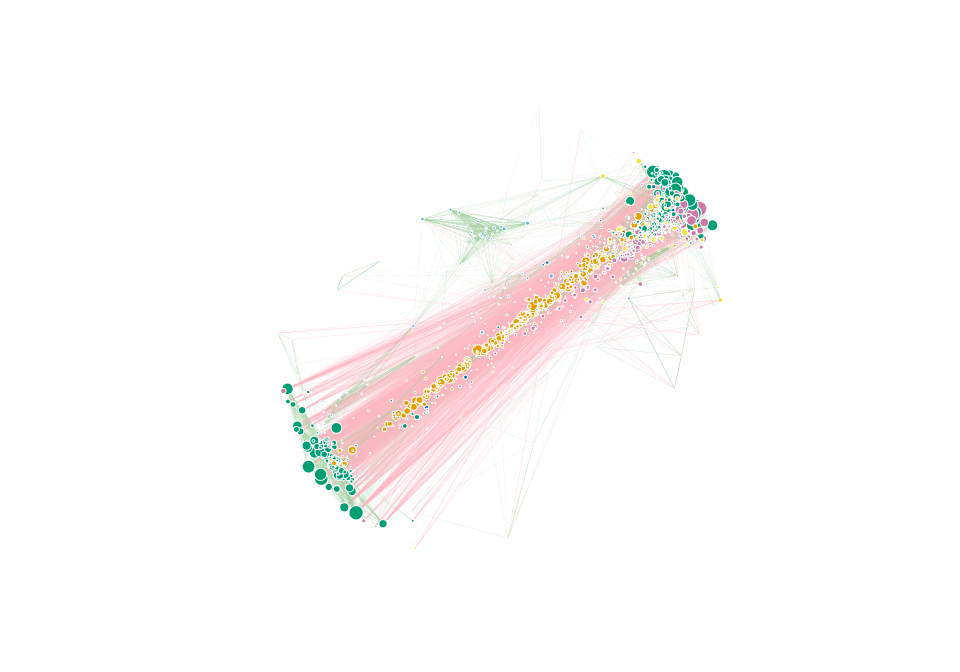
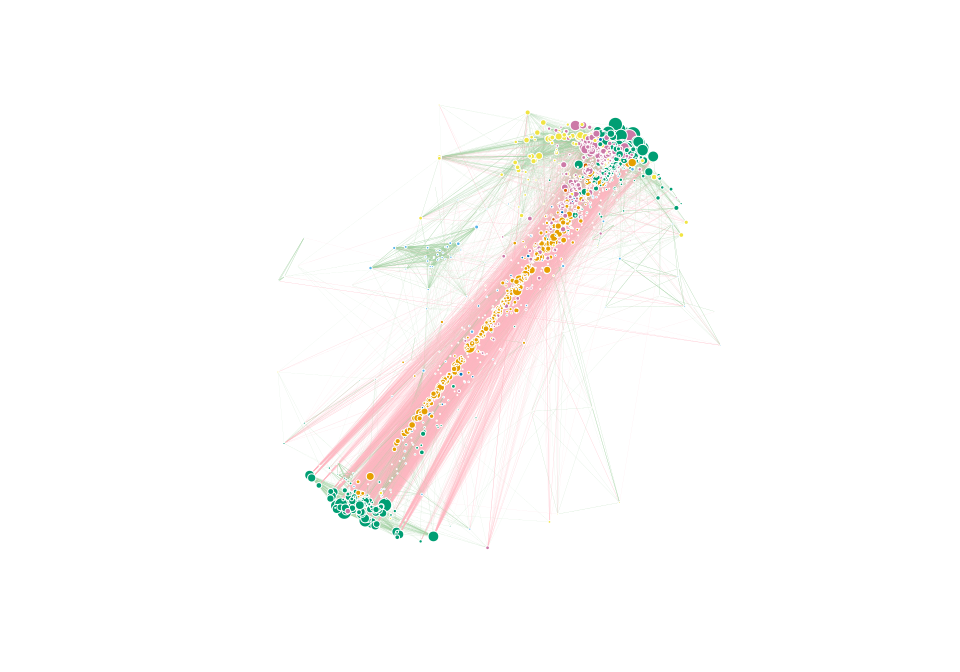
Se explora fuerza de los nodos y diferencias en los rankeos de los mismos

Changed region(s): [[0.2812, 0.1562, 0.75, 0.8125], [0.6562, 0.4688, 0.6875, 0.5]]

diff --git a/Ranking_norm_viz.md b/Ranking_norm_viz.md
@@ -323,8 +323,8 @@ Repetimos los mismos pasos para la red p < 0.001
 g_inf2 = graph_from_data_frame(net_inf_norm2, directed = F)
 g_sld2 = graph_from_data_frame(net_sld_norm2, directed = F)
 
-v_inf2 = V(g_inf)$name
-v_sld2 = V(g_sld)$name
+v_inf2 = V(g_inf2)$name
+v_sld2 = V(g_sld2)$name
 
 
 v_missinf2 = subset(v_cominf, v_cominf %ni% v_inf2) 
@@ -577,5 +577,250 @@ plot(g_sld_com2, rescale = T, layout = ls2)
 ```
 
 ![](Ranking_norm_viz_files/figure-html/unnamed-chunk-20-1.png)<!-- -->
+
+
+
+# Redes separadas con aristas negativas y positivas
+
+Observamos individualmente las subredes con interacciones solo positivas o negativas
+
+
+
+```r
+g_inf_neg <- graph_from_data_frame(inf_neg2, directed = F)
+g_inf_pos <- graph_from_data_frame(inf_pos2, directed = F)
+
+g_sld_neg <- graph_from_data_frame(sld_neg2, directed = F)
+g_sld_pos <- graph_from_data_frame(sld_pos2, directed = F)
+```
+
+
+Calculamos la fuerza y el grado de cada nodo para cada red.
+
+
+
+```r
+#Calculamos grado
+V(g_inf_neg)$degree = degree(g_inf_neg)
+V(g_inf_pos)$degree = degree(g_inf_pos)
+
+V(g_sld_neg)$degree = degree(g_sld_neg)
+V(g_sld_pos)$degree = degree(g_sld_pos)
+
+V(g_inf_com2)$degree = degree(g_inf_com2)
+V(g_sld_com2)$degree = degree(g_sld_com2)
+
+#Calculamos fuerza
+V(g_inf_neg)$str = strength(g_inf_neg, weights = abs(E(g_inf_neg)$norm))
+V(g_inf_pos)$str = strength(g_inf_pos, weights = E(g_inf_pos)$norm)
+
+V(g_sld_neg)$str = strength(g_sld_neg, weights = abs(E(g_sld_neg)$norm))
+V(g_sld_pos)$str = strength(g_sld_pos, weights = E(g_sld_pos)$norm)
+
+V(g_inf_com2)$str = strength(g_inf_com2, weights = abs(E(g_inf_com2)$norm_1))
+V(g_sld_com2)$str = strength(g_sld_com2, weights = abs(E(g_sld_com2)$norm_1))
+
+
+#Calculamos fuerza promedio para cada nodo (s_i = str_i/deg_i)
+
+V(g_inf_neg)$strnorm = V(g_inf_neg)$str/V(g_inf_neg)$degree
+V(g_inf_pos)$strnorm = V(g_inf_pos)$str/V(g_inf_pos)$degree
+
+V(g_sld_neg)$strnorm = V(g_sld_neg)$str/V(g_sld_neg)$degree
+V(g_sld_pos)$strnorm = V(g_sld_pos)$str/V(g_sld_pos)$degree
+
+V(g_inf_com2)$strnorm = V(g_inf_com2)$str/V(g_inf_com2)$degree
+V(g_sld_com2)$strnorm = V(g_sld_com2)$str/V(g_sld_com2)$degree
+```
+
+
+
+Checamos plot de grado vs fuerza promedio
+
+
+
+```r
+deg_vs_str_infneg = cbind.data.frame(V(g_inf_neg)$degree, V(g_inf_neg)$strnorm)
+deg_vs_str_infpos = cbind.data.frame(V(g_inf_pos)$degree, V(g_inf_pos)$strnorm)
+deg_vs_str_infcom = cbind.data.frame(V(g_inf_com2)$degree, V(g_inf_com2)$strnorm)
+
+
+deg_vs_str_sldneg = cbind.data.frame(V(g_sld_neg)$degree, V(g_sld_neg)$strnorm)
+deg_vs_str_sldpos = cbind.data.frame(V(g_sld_pos)$degree, V(g_sld_pos)$strnorm)
+deg_vs_str_sldcom = cbind.data.frame(V(g_sld_com2)$degree, V(g_sld_com2)$strnorm)
+```
+
+
+
+
+```r
+ggplot(deg_vs_str_infneg) +
+ aes(x = `V(g_inf_neg)$degree`, y = `V(g_inf_neg)$strnorm`) +
+ geom_point(shape = "circle", 
+ size = 1.5, colour = "#C9092C") + geom_vline(xintercept = mean( deg_vs_str_infneg$`V(g_inf_neg)$degree`), col = "black") +
+  geom_hline(yintercept = mean(deg_vs_str_infneg$`V(g_inf_neg)$strnorm`), col = "black") +
+ theme_minimal()
+```
+
+![](Ranking_norm_viz_files/figure-html/unnamed-chunk-24-1.png)<!-- -->
+
+```r
+ggplot(deg_vs_str_infpos) +
+ aes(x = `V(g_inf_pos)$degree`, y = `V(g_inf_pos)$strnorm`) +
+ geom_point(shape = "circle", 
+ size = 1.5, colour = "green") + geom_vline(xintercept = mean( deg_vs_str_infpos$`V(g_inf_pos)$degree`), col = "black") +
+  geom_hline(yintercept = mean(deg_vs_str_infpos$`V(g_inf_pos)$strnorm`), col = "black") +
+ theme_minimal()
+```
+
+![](Ranking_norm_viz_files/figure-html/unnamed-chunk-24-2.png)<!-- -->
+
+```r
+ggplot(deg_vs_str_infcom) +
+ aes(x = `V(g_inf_com2)$degree`, y = `V(g_inf_com2)$strnorm`) +
+ geom_point(shape = "circle", 
+ size = 1.5, colour = "steelblue3") + geom_vline(xintercept = mean( deg_vs_str_infcom$`V(g_inf_com2)$degree`), col = "black") +
+  geom_hline(yintercept = mean(deg_vs_str_infcom$`V(g_inf_com2)$strnorm`, na.rm = T), col = "black") +
+ theme_minimal()
+```
+
+```
+## Warning: Removed 24 rows containing missing values (geom_point).
+```
+
+![](Ranking_norm_viz_files/figure-html/unnamed-chunk-24-3.png)<!-- -->
+
+
+
+
+```r
+ggplot(deg_vs_str_sldneg) +
+ aes(x = `V(g_sld_neg)$degree`, y = `V(g_sld_neg)$strnorm`) +
+ geom_point(shape = "circle", 
+ size = 1.5, colour = "#C9092C") + geom_vline(xintercept = mean( deg_vs_str_sldneg$`V(g_sld_neg)$degree`), col = "black") +
+  geom_hline(yintercept = mean(deg_vs_str_sldneg$`V(g_sld_neg)$strnorm`), col = "black") +
+ theme_minimal()
+```
+
+![](Ranking_norm_viz_files/figure-html/unnamed-chunk-25-1.png)<!-- -->
+
+```r
+ggplot(deg_vs_str_sldpos) +
+ aes(x = `V(g_sld_pos)$degree`, y = `V(g_sld_pos)$strnorm`) +
+ geom_point(shape = "circle", 
+ size = 1.5, colour = "green") + geom_vline(xintercept = mean( deg_vs_str_sldpos$`V(g_sld_pos)$degree`), col = "black") +
+  geom_hline(yintercept = mean(deg_vs_str_sldpos$`V(g_sld_pos)$strnorm`), col = "black") +
+ theme_minimal()
+```
+
+![](Ranking_norm_viz_files/figure-html/unnamed-chunk-25-2.png)<!-- -->
+
+```r
+ggplot(deg_vs_str_sldcom) +
+ aes(x = `V(g_sld_com2)$degree`, y = `V(g_sld_com2)$strnorm`) +
+ geom_point(shape = "circle", 
+ size = 1.5, colour = "plum2") + geom_vline(xintercept = mean( deg_vs_str_sldcom$`V(g_sld_com2)$degree`), col = "black") +
+  geom_hline(yintercept = mean(deg_vs_str_sldcom$`V(g_sld_com2)$strnorm`, na.rm = T), col = "black") +
+ theme_minimal()
+```
+
+```
+## Warning: Removed 25 rows containing missing values (geom_point).
+```
+
+![](Ranking_norm_viz_files/figure-html/unnamed-chunk-25-3.png)<!-- -->
+
+
+Checamos grado de nodo vs. rank.
+
+
+
+```r
+deg_rank_inf = cbind.data.frame(V(g_inf_com2)$name, V(g_inf_com2)$degree)
+deg_rank_inf =  deg_rank_inf[order(-deg_rank_inf$`V(g_inf_com2)$degree`),]
+deg_rank_inf$rank = rank(-deg_rank_inf$`V(g_inf_com2)$degree`, ties.method = "min")
+
+
+
+deg_rank_sld = cbind.data.frame(V(g_sld_com2)$name, V(g_sld_com2)$degree)
+deg_rank_sld =  deg_rank_sld[order(-deg_rank_sld$`V(g_sld_com2)$degree`),]
+deg_rank_sld$rank = rank(-deg_rank_sld$`V(g_sld_com2)$degree`, ties.method = "min")
+
+
+
+ggplot() + 
+geom_line(data=deg_rank_inf, aes(x=log10(`V(g_inf_com2)$degree`), y=log10(rank)), color='midnightblue') + 
+geom_line(data=deg_rank_sld, aes(x=log10(`V(g_sld_com2)$degree`), y=log10(rank)), color='tomato') + theme_minimal()
+```
+
+![](Ranking_norm_viz_files/figure-html/unnamed-chunk-26-1.png)<!-- -->
+
+
+Checamos fuerza norm v.s. rank
+
+
+
+```r
+str_rank_inf = cbind.data.frame(V(g_inf_com2)$name, V(g_inf_com2)$strnorm)
+str_rank_inf =  str_rank_inf[order(-str_rank_inf$`V(g_inf_com2)$strnorm`),]
+str_rank_inf$rank = rank(-str_rank_inf$`V(g_inf_com2)$strnorm`, ties.method = "min")
+
+
+
+str_rank_sld = cbind.data.frame(V(g_sld_com2)$name, V(g_sld_com2)$strnorm)
+str_rank_sld =  str_rank_sld[order(-str_rank_sld$`V(g_sld_com2)$strnorm`),]
+str_rank_sld$rank = rank(-str_rank_sld$`V(g_sld_com2)$strnorm`, ties.method = "min")
+
+
+
+ggplot() + 
+geom_line(data=str_rank_inf, aes(x=log10(`V(g_inf_com2)$strnorm`), y=log10(rank)), color='midnightblue') + 
+geom_line(data=str_rank_sld, aes(x=log10(`V(g_sld_com2)$strnorm`), y=log10(rank)), color='tomato') + theme_minimal()
+```
+
+```
+## Warning: Removed 24 row(s) containing missing values (geom_path).
+```
+
+```
+## Warning: Removed 25 row(s) containing missing values (geom_path).
+```
+
+![](Ranking_norm_viz_files/figure-html/unnamed-chunk-27-1.png)<!-- -->
+
+
+Checamos cómo cambiaron los rankings de los nodos comunes para ambas condiciones 
+
+
+
+```r
+itsct_sld = filter(deg_rank_sld, deg_rank_sld$`V(g_sld_com2)$name` %in% deg_rank_inf$`V(g_inf_com2)$name`) 
+itsct_sld_ord = itsct_sld[order(itsct_sld$`V(g_sld_com2)$name`),]
+
+
+
+itsct_inf = filter(deg_rank_inf, deg_rank_inf$`V(g_inf_com2)$name` %in% deg_rank_sld$`V(g_sld_com2)$name`)
+itsct_inf_ord = itsct_inf[order(itsct_inf$`V(g_inf_com2)$name`),]
+
+
+ranks_compare = itsct_sld_ord
+ranks_compare$rank_inf = itsct_inf_ord$rank
+ranks_compare$grado_inf = itsct_inf_ord$`V(g_inf_com2)$degree`
+
+colnames(ranks_compare) = c("OTU", "grado_sld", "rank_salud", "rank_inf", "grado_inf")
+```
+
+
+
+```r
+ggplot(ranks_compare) +
+ aes(x =-log10(rank_inf), y = -log10(rank_salud)) +
+ geom_point(shape = "circle", size = 1, 
+ colour = "#FF269E") +
+geom_abline(intercept = 0, slope = 1) +
+ theme_minimal()
+```
+
+![](Ranking_norm_viz_files/figure-html/unnamed-chunk-29-1.png)<!-- -->
 
 
